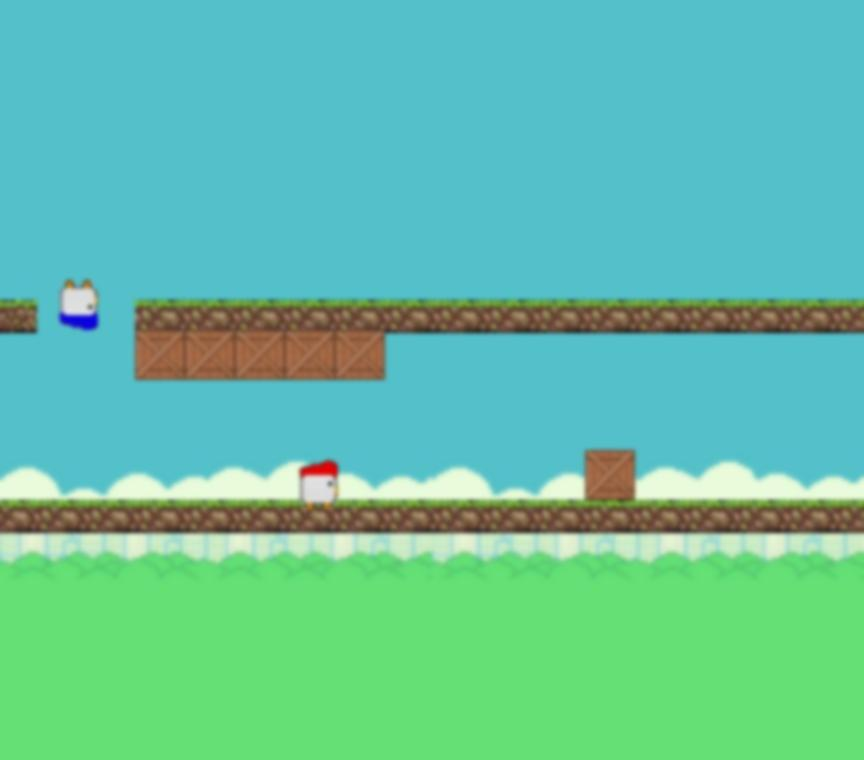
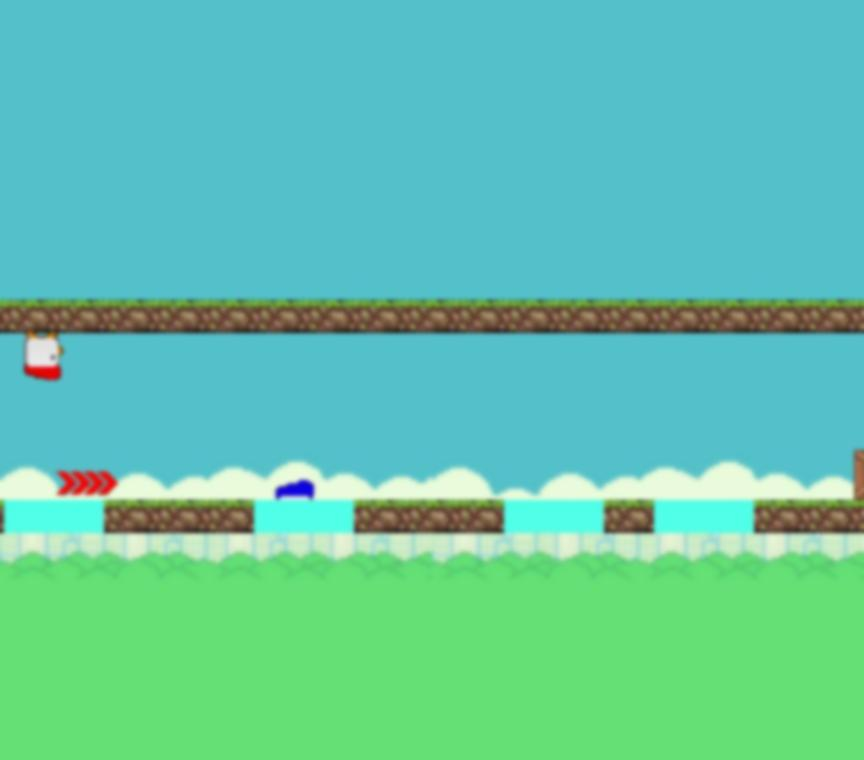
Add water, del bags

Changed region(s): [[0.0, 0.3632, 1.0, 0.5145], [0.0, 0.575, 1.0, 0.7263]]

diff --git a/main.py b/main.py
@@ -85,6 +85,7 @@ def main():
     start_group = pygame.sprite.Group()
     finish_group = pygame.sprite.Group()
     arrows_group = pygame.sprite.Group()
+    waters_group = pygame.sprite.Group()
 
     image1 = pygame.transform.scale(load_image('ChickenRed-up_stay.png'), (40, 50))  # motion animation
     image2 = pygame.transform.scale(load_image('ChickenRed-up_run.png'), (40, 50))  # motion animation
@@ -141,6 +142,14 @@ def main():
             self.mask = pygame.mask.from_surface(self.image)
             self.rect = self.image.get_rect().move(
                 tile_width * pos_x, tile_height * pos_y - 50)
+
+    class Water(pygame.sprite.Sprite):
+        def __init__(self, tile_type, pos_x, pos_y):
+            super().__init__(waters_group)
+            self.image = pygame.transform.scale(load_image('water.png'), (100, 33))
+            self.mask = pygame.mask.from_surface(self.image)
+            self.rect = self.image.get_rect().move(
+                tile_width * pos_x, tile_height * pos_y)
 
     class Finish_line(pygame.sprite.Sprite):
         def __init__(self, tile_type, pos_x, pos_y):
@@ -206,6 +215,10 @@ def main():
             if pygame.sprite.spritecollideany(self, arrows_group):
                 arrow.play(arrow_player)
                 self.x += 240
+            if pygame.sprite.spritecollideany(self, waters_group):
+                self.x += 10
+                self.y += 20
+             #   finish = 1
 
     class Bird1(pygame.sprite.Sprite):
 
@@ -256,6 +269,9 @@ def main():
             if pygame.sprite.spritecollideany(self, arrows_group):
                 arrow.play(arrow_player)
                 self.x += 240
+            if pygame.sprite.spritecollideany(self, waters_group):
+                self.x += 10
+                self.y += 20
 
     class Start_line(pygame.sprite.Sprite):
         def __init__(self, sheet, level):
@@ -351,9 +367,11 @@ def main():
                         Tile('wall', x - c, y)  # upper blocks
                         a += 1
                     else:
-                        Tile1('wall', x - c, y)  # lower blockы
+                        Tile1('wall', x - c, y)  # lower blocks
                 elif level[y][x] == '|':
                     Finish_line('finish-line', x - c, y)
+                elif level[y][x] == '~':
+                    Water('wall', x - c, y)
                 elif level[y][x] == '!':
                     if a <= 43:
                         Tile('wall', x - c, y)
@@ -471,6 +489,7 @@ def main():
             tiles_group4 = pygame.sprite.Group()  # lower barriers
             finish_group = pygame.sprite.Group()  # lower barriers
             arrows_group = pygame.sprite.Group()  # lower barriers
+            waters_group = pygame.sprite.Group()  # lower barriers
             screen.blit(bg, (0, 0))
             hero, level_x, level_y = generate_level(level_map, map_speed)
 
@@ -488,6 +507,8 @@ def main():
             bird_group.update()
             arrows_group.draw(screen)
             arrows_group.update()
+            waters_group.draw(screen)
+            waters_group.update()
         start_group.draw(screen)
         start_group.update()
 
